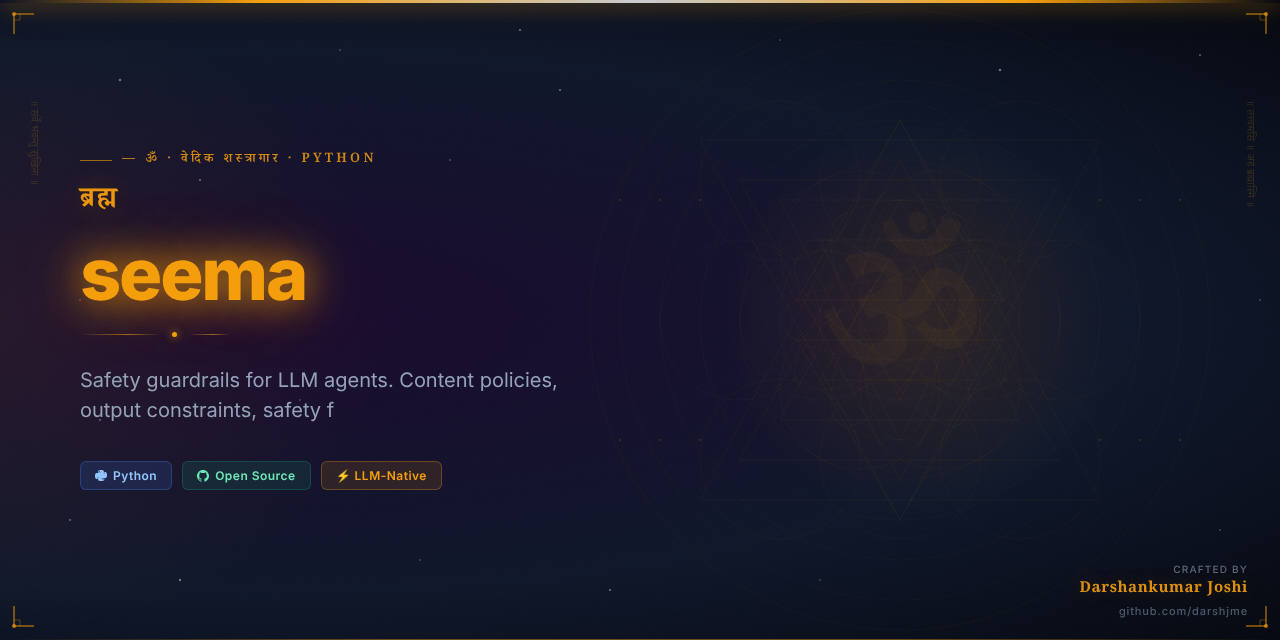
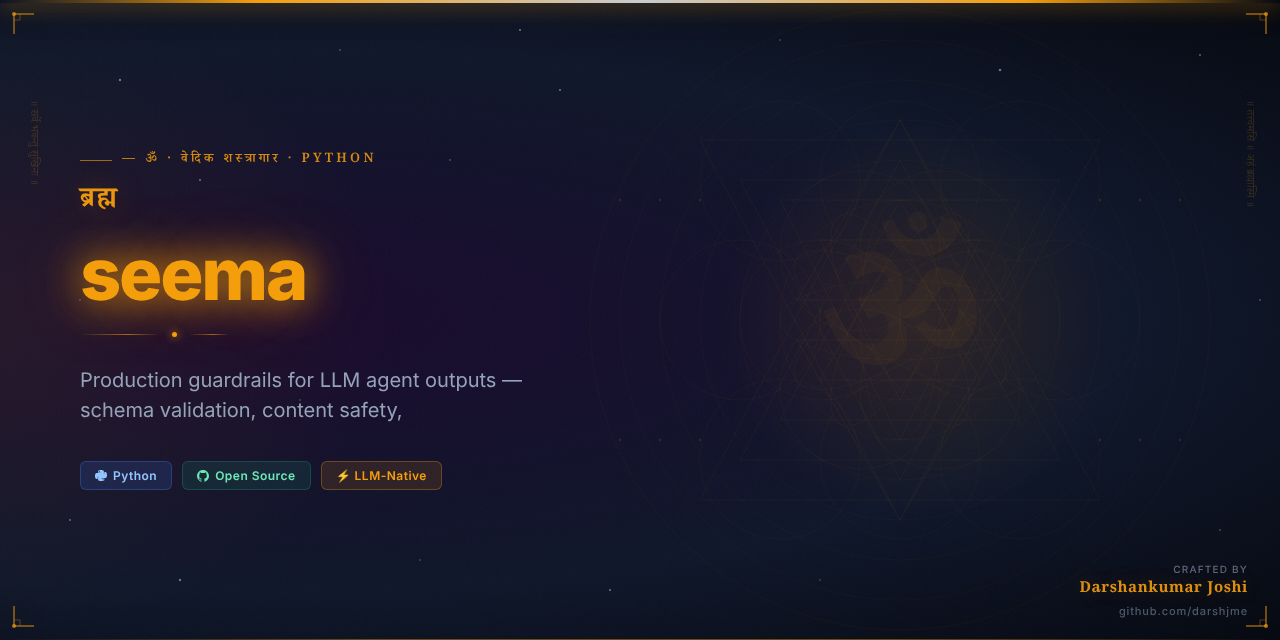
feat(vedic-v3): rename to seema (सीमा)
Source: Ramayana — Lakshman Rekha episode
Meaning: Sacred Boundary — Lakshman Rekha
Part of darshjme/arsenal — 100 Vedic-named Python libraries for LLM agents.

Changed region(s): [[0.0625, 0.5625, 0.4375, 0.6562]]

diff --git a/README.md b/README.md
@@ -9,7 +9,7 @@
 
 ### Sacred Boundary — Lakshman Rekha
 
-**Safety guardrails for LLM agents. Content policies, output constraints, safety filters.**
+**Production guardrails for LLM agent outputs — schema validation, content safety, retry logic**
 
 [![Python](https://img.shields.io/badge/Python-3.8%2B-blue?style=flat-square&logo=python)](https://python.org)
 [![Zero Dependencies](https://img.shields.io/badge/Dependencies-Zero-brightgreen?style=flat-square)](https://github.com/darshjme/seema)
